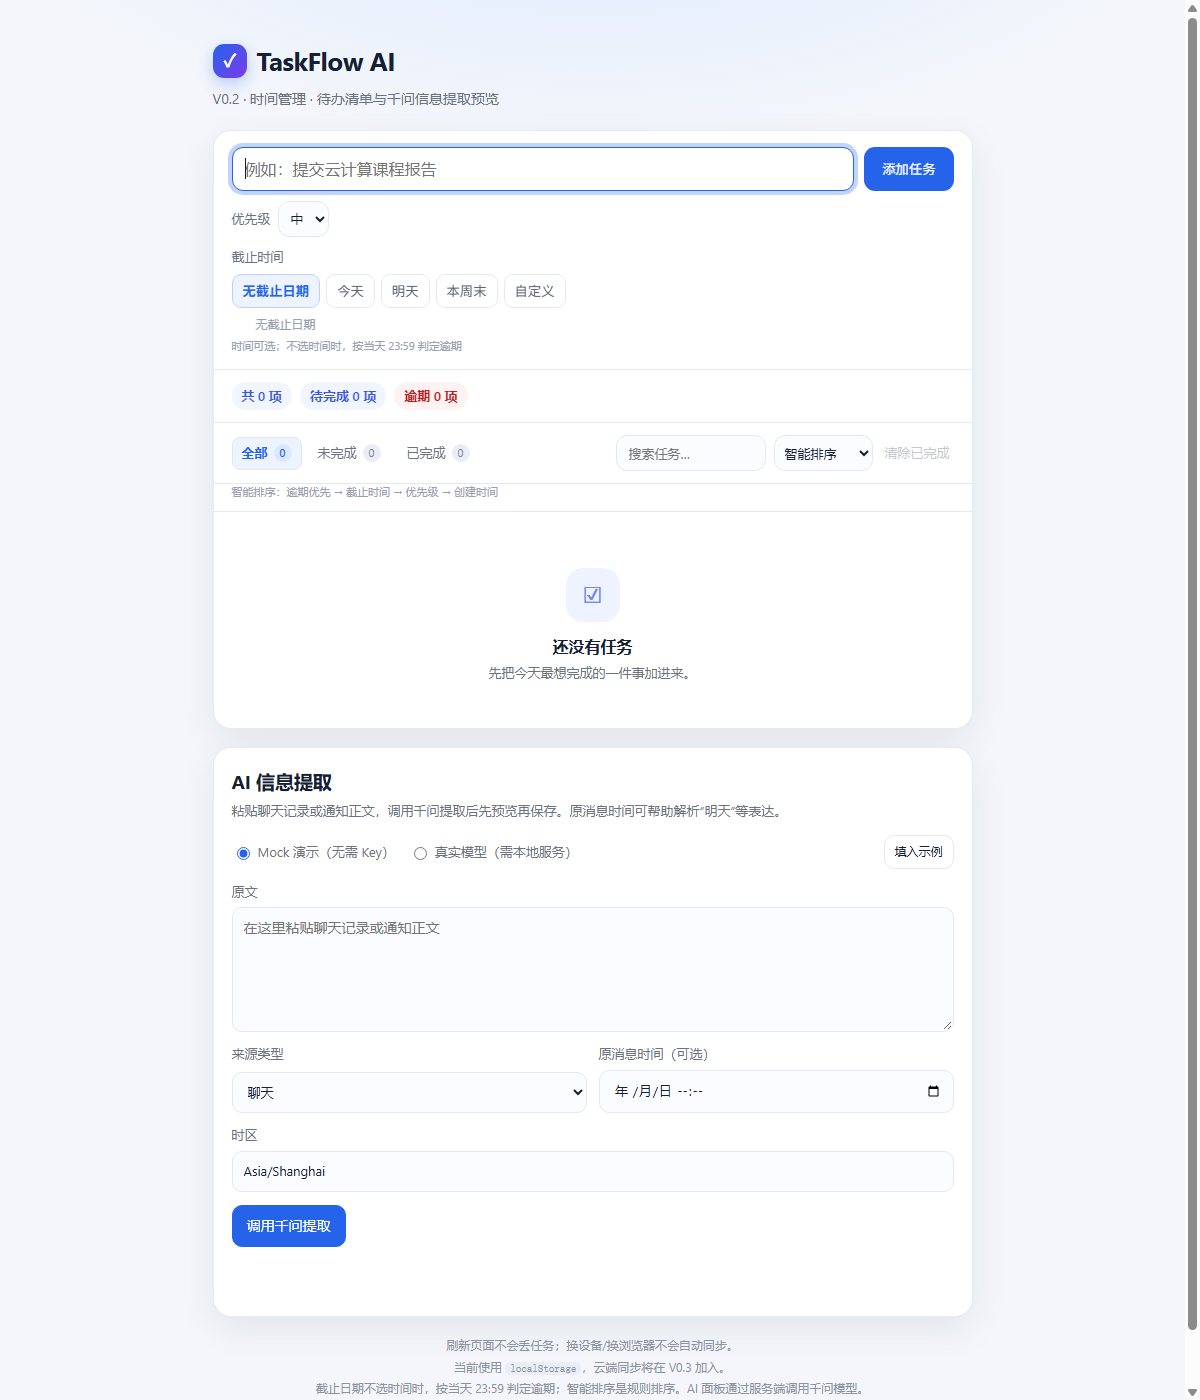
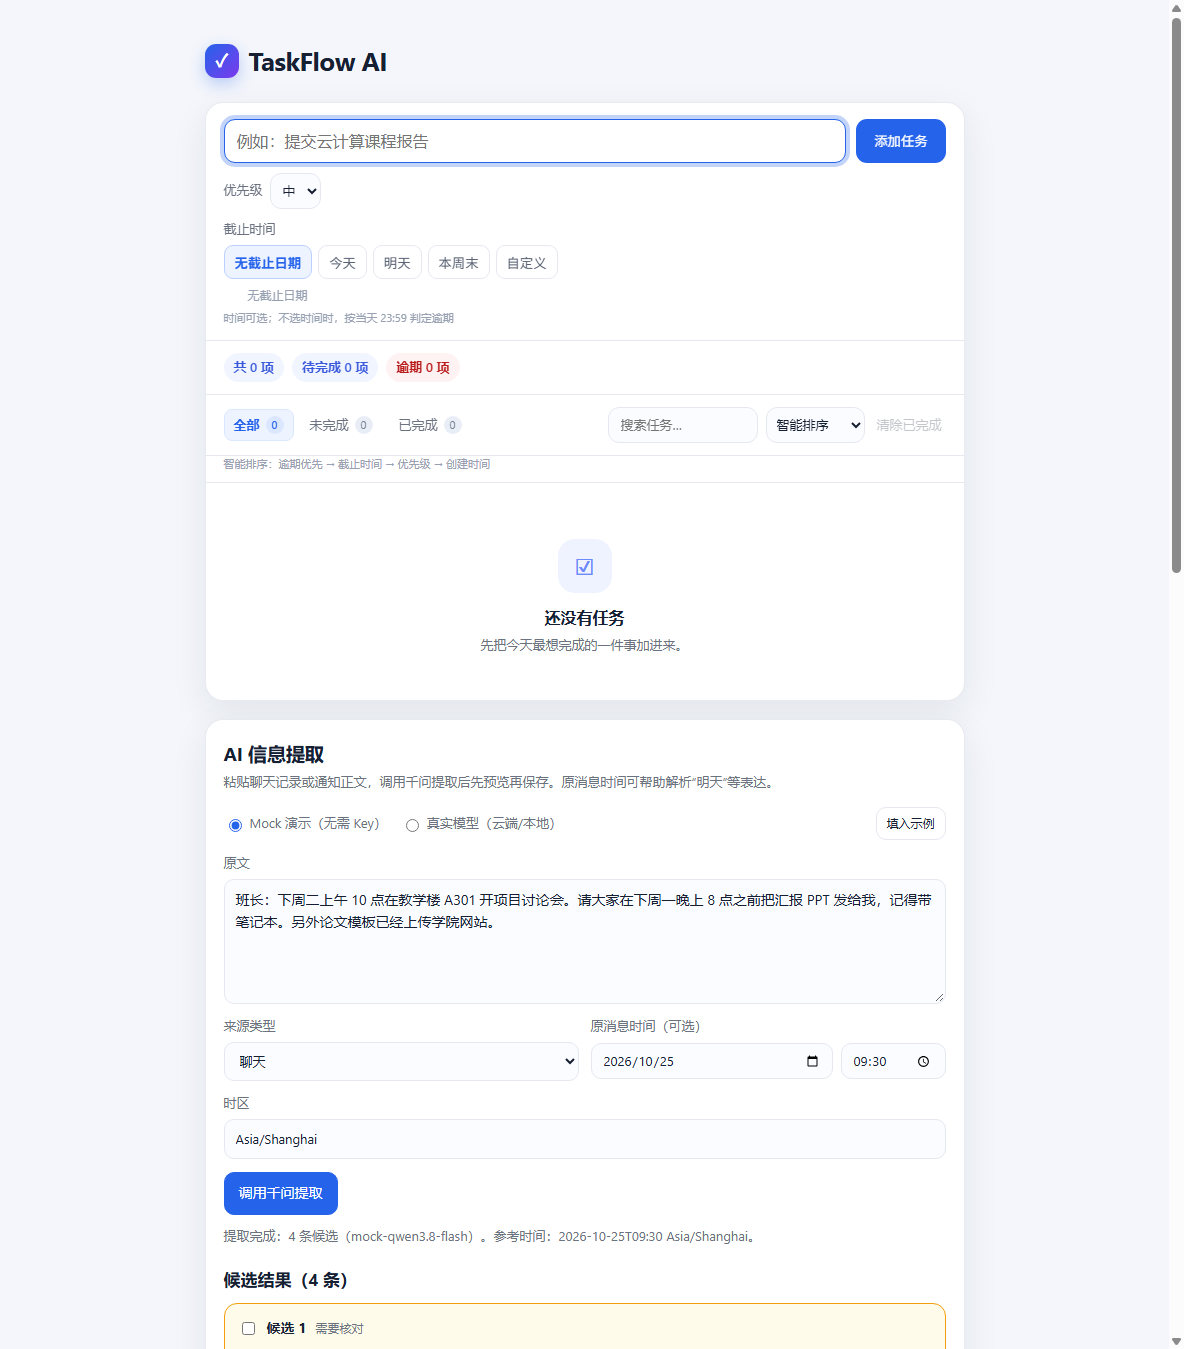
style(ai): align source time fields and trim captions

diff --git a/src/ai/ai-panel.js b/src/ai/ai-panel.js
@@ -10,13 +10,15 @@
     '<p>粘贴聊天记录或通知正文，调用千问提取后先预览再保存。原消息时间可帮助解析“明天”等表达。</p>' +
     '<div class="ai-mode">' +
       '<label><input type="radio" name="ai-mode" value="mock" checked> Mock 演示（无需 Key）</label>' +
-      '<label><input type="radio" name="ai-mode" value="real"> 真实模型（需本地服务）</label>' +
+      '<label><input type="radio" name="ai-mode" value="real"> 真实模型（云端/本地）</label>' +
       '<button type="button" class="ai-btn small" id="ai-fill-sample">填入示例</button>' +
     '</div>' +
     '<div class="ai-grid">' +
       '<label class="ai-field wide">原文<textarea id="ai-text" maxlength="20000" placeholder="在这里粘贴聊天记录或通知正文"></textarea></label>' +
       '<label class="ai-field">来源类型<select id="ai-source"><option value="chat">聊天</option><option value="notice">通知</option></select></label>' +
-      '<label class="ai-field">原消息时间（可选）<input id="ai-received" type="datetime-local"></label>' +
+      '<label class="ai-field">原消息时间（可选）' +
+        '<div class="ai-datetime"><input id="ai-received-date" type="date" aria-label="原消息日期"><input id="ai-received-time" type="time" aria-label="原消息时间，可留空"></div>' +
+      '</label>' +
       '<label class="ai-field wide">时区<input id="ai-timezone" value="Asia/Shanghai" spellcheck="false"></label>' +
     '</div>' +
     '<div class="ai-actions"><button type="button" class="ai-btn primary" id="ai-extract">调用千问提取</button></div>' +
@@ -29,7 +31,8 @@
   function byId(id) { return document.getElementById(id); }
   var textEl = byId("ai-text");
   var sourceEl = byId("ai-source");
-  var receivedEl = byId("ai-received");
+  var receivedDateEl = byId("ai-received-date");
+  var receivedTimeEl = byId("ai-received-time");
   var timezoneEl = byId("ai-timezone");
   var statusEl = byId("ai-status");
   var previewEl = byId("ai-preview");
@@ -53,7 +56,10 @@
     timezoneEl.value = mock.input.timezone || "Asia/Shanghai";
     textEl.value = mock.input.text;
     sourceEl.value = mock.input.sourceType || "chat";
-    receivedEl.value = zonedValue(mock.input.receivedAt);
+    var zoned = zonedValue(mock.input.receivedAt);
+    var parts = zoned ? zoned.split("T") : [];
+    receivedDateEl.value = parts[0] || "";
+    receivedTimeEl.value = parts[1] || "";
     setStatus("已填入示例；当前是 Mock 演示，不会调用真实模型。", false);
   }
 
@@ -269,7 +275,8 @@
         result.model = "mock-qwen3.8-flash";
         result.referenceTime = mock.input.receivedAt;
       } else {
-        payload = { text: text, sourceType: sourceEl.value, receivedAt: fromZoned(receivedEl.value),
+        payload = { text: text, sourceType: sourceEl.value,
+          receivedAt: receivedDateEl.value ? fromZoned(receivedDateEl.value + "T" + (receivedTimeEl.value || "00:00")) : null,
           capturedAt: new Date().toISOString(), timezone: timezoneEl.value.trim() || "Asia/Shanghai" };
         var response = await fetch(window.TASKFLOW_AI_API_URL || "/api/extract", { method: "POST", headers: {"Content-Type": "application/json"}, body: JSON.stringify(payload) });
         if (!(response.headers.get("content-type") || "").includes("application/json")) {

diff --git a/src/ai/ai.css b/src/ai/ai.css
@@ -13,6 +13,10 @@
   padding: 9px 11px; background: #fbfcff; color: var(--text); font: inherit;
 }
 .ai-field textarea { min-height: 125px; resize: vertical; font-size: 14px; }
+.ai-datetime { display: flex; gap: 8px; min-width: 0; }
+.ai-datetime input { width: auto; height: 36px; padding: 0 11px; }
+.ai-datetime input[type="date"] { flex: 1 1 150px; }
+.ai-datetime input[type="time"] { flex: 0 0 105px; }
 .ai-field input:focus, .ai-field select:focus, .ai-field textarea:focus { outline: 2px solid var(--focus); border-color: var(--primary); }
 .ai-actions { display: flex; flex-wrap: wrap; gap: 9px; align-items: center; margin-top: 13px; }
 .ai-btn { border: 1px solid var(--line); border-radius: 10px; padding: 9px 14px; font: inherit; font-size: 14px; background: #fff; color: var(--text); cursor: pointer; }

diff --git a/index.html b/index.html
@@ -551,7 +551,6 @@
         <span class="brand-mark" aria-hidden="true">✓</span>
         TaskFlow AI
       </h1>
-      <p class="subtitle">V0.2 · 时间管理 · 待办清单与千问信息提取预览</p>
     </header>
 
     <section class="card" aria-label="待办清单">
@@ -622,8 +621,6 @@
     </section>
 
     <footer>
-      刷新页面不会丢任务；换设备/换浏览器不会自动同步。<br>
-      当前使用 <code>localStorage</code>，云端同步将在 V0.3 加入。<br>
       截止日期不选时间时，按当天 23:59 判定逾期；智能排序是规则排序。AI 面板通过服务端调用千问模型。
     </footer>
   </main>
